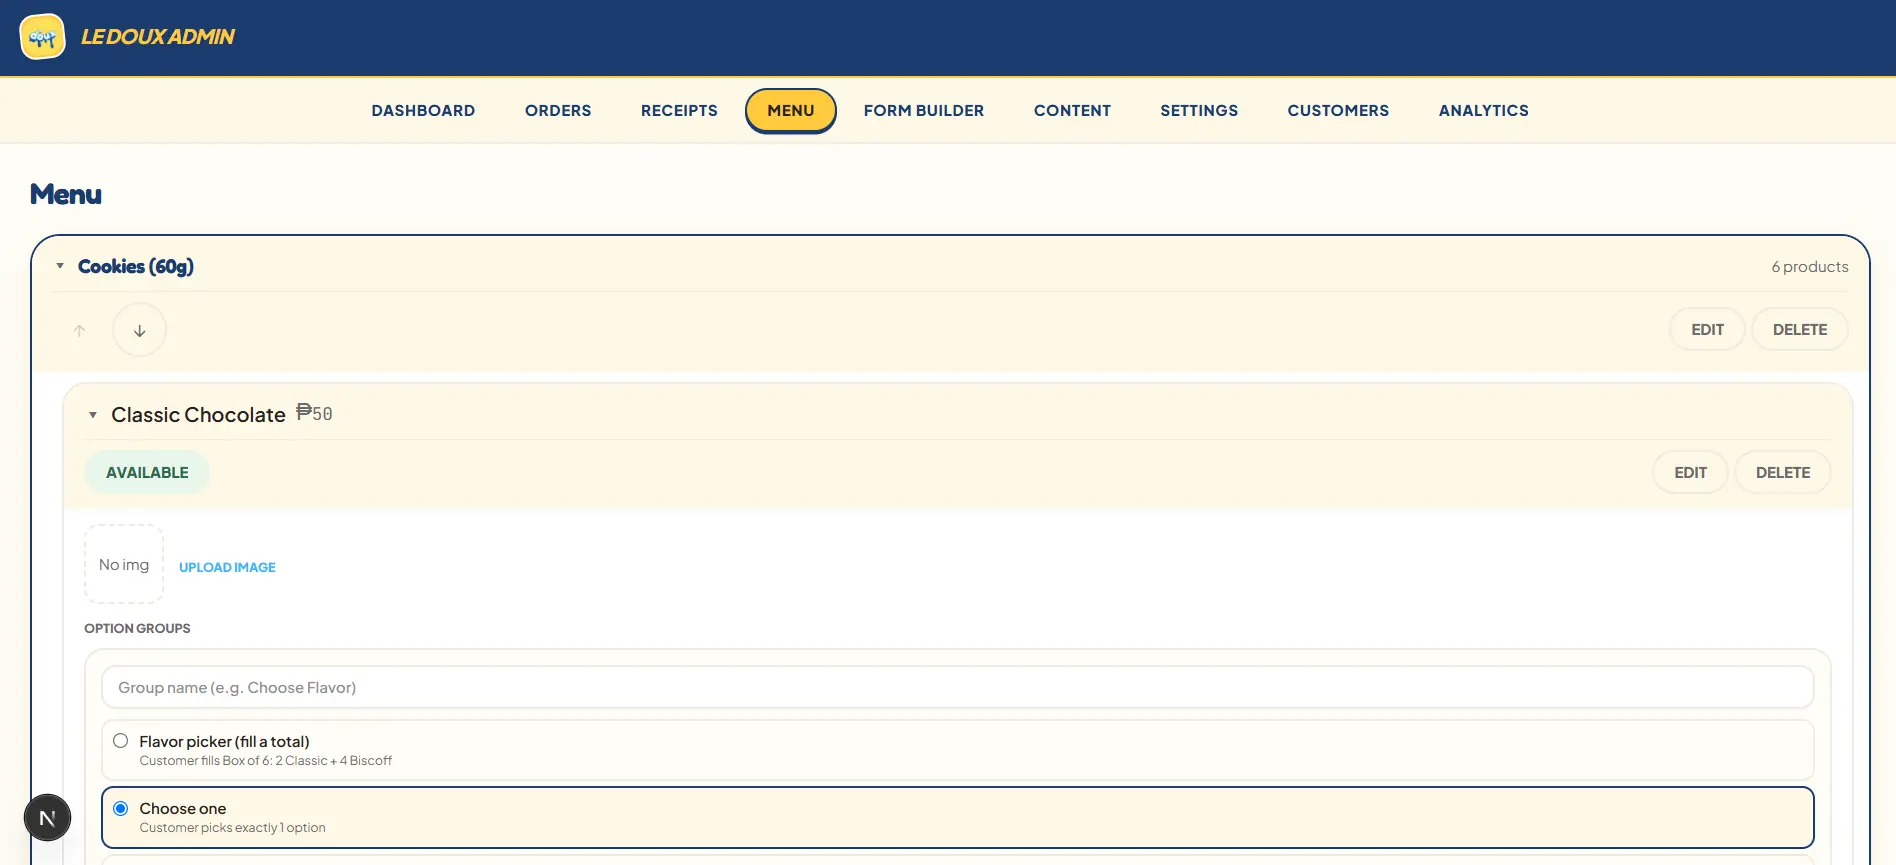
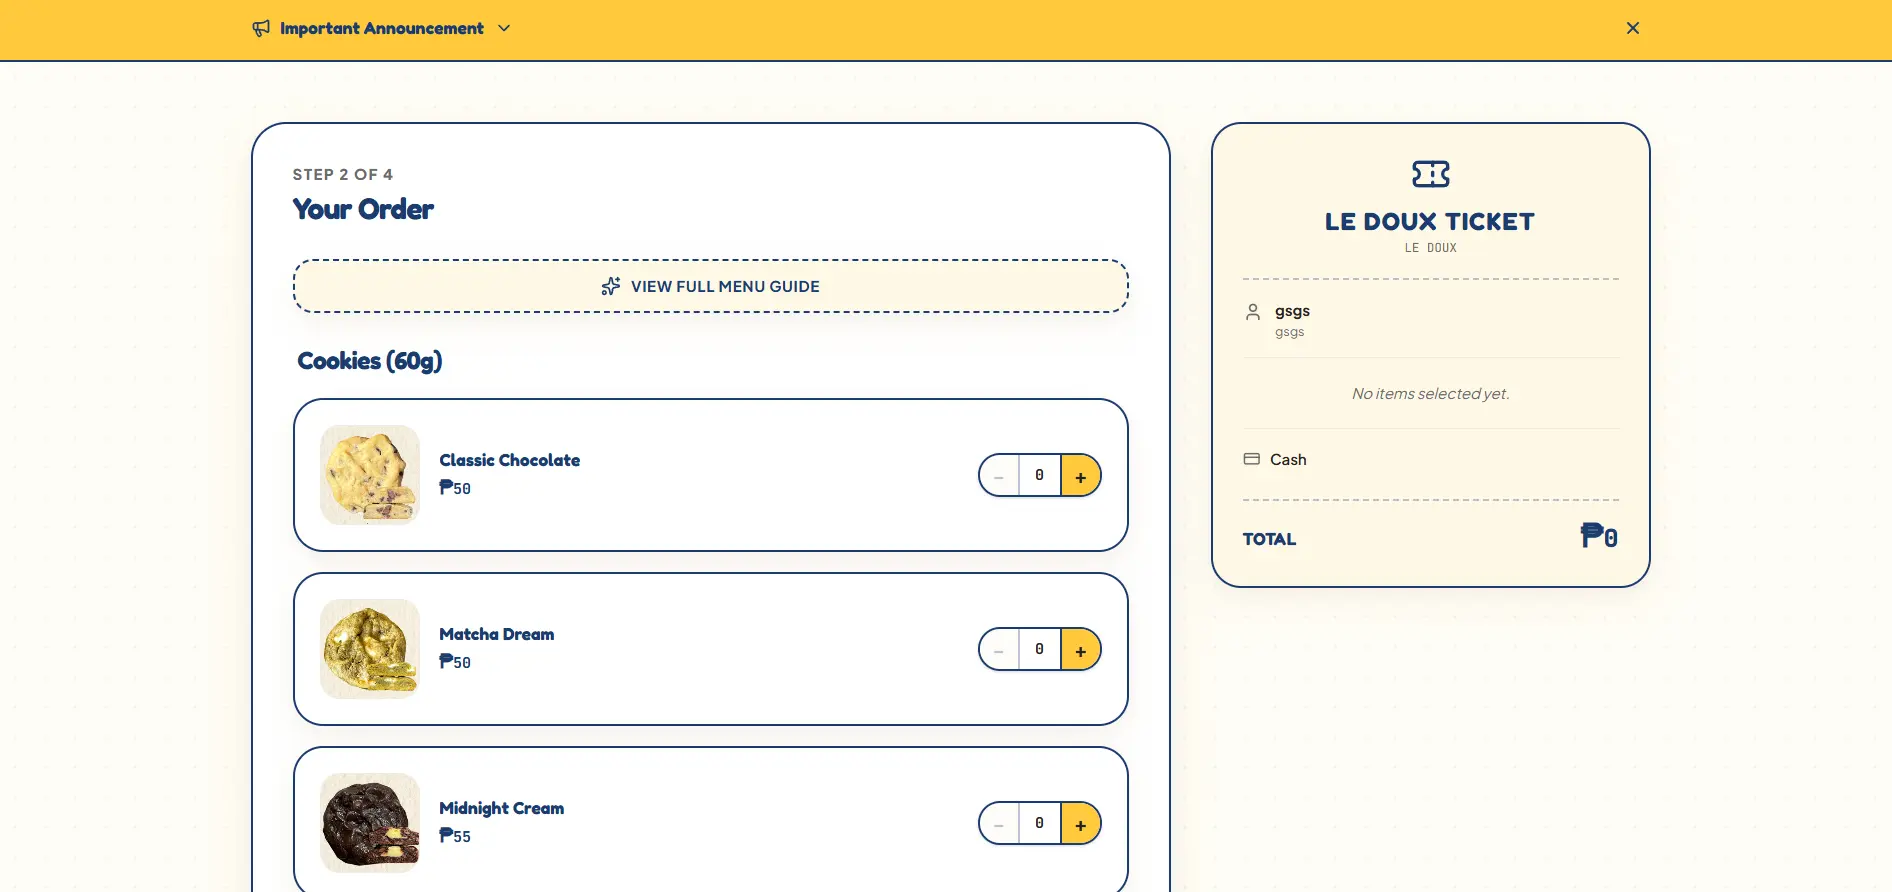
content: rewrite Le Doux project entry and add ogImageSrc field
Refreshes the Le Doux case study with the full current feature set (fulfillment
options, receipt generation, staff management, automated cleanup) and swaps its
gallery to the updated screenshot set. Also adds the ogImageSrc field to Project
and Certificate, populated for every existing entry, so OG image routes can read
source images straight off disk.

diff --git a/lib/projects.ts b/lib/projects.ts
@@ -36,12 +36,17 @@ import clarift3 from "@/app/assets/projects/clarift/3.webp";
 import clarift4 from "@/app/assets/projects/clarift/4.webp";
 import clarift5 from "@/app/assets/projects/clarift/5.webp";
 
-import leDouxHero from "@/app/assets/projects/leDoux/hero.png";
+import leDouxHero from "@/app/assets/projects/leDoux/hero.webp";
 import leDoux1 from "@/app/assets/projects/leDoux/1.webp";
 import leDoux2 from "@/app/assets/projects/leDoux/2.webp";
 import leDoux3 from "@/app/assets/projects/leDoux/3.webp";
 import leDoux4 from "@/app/assets/projects/leDoux/4.webp";
 import leDoux5 from "@/app/assets/projects/leDoux/5.webp";
+import leDoux6 from "@/app/assets/projects/leDoux/6.webp";
+import leDoux7 from "@/app/assets/projects/leDoux/7.webp";
+import leDoux8 from "@/app/assets/projects/leDoux/8.webp";
+import leDoux9 from "@/app/assets/projects/leDoux/9.webp";
+import leDoux10 from "@/app/assets/projects/leDoux/10.webp";
 
 import { StaticImageData } from "next/image";
 
@@ -80,6 +85,7 @@ const hcdcLFMSImages  : StaticImageData[] = [
 ]
 
 const clariftImages : StaticImageData[] = [
+  clariftHero,
   clarift1,
   clarift2,
   clarift3,
@@ -88,11 +94,17 @@ const clariftImages : StaticImageData[] = [
 ]
 
 const leDouxImages : StaticImageData[] = [
+  leDouxHero,
   leDoux1,
   leDoux2,
   leDoux3,
   leDoux4,
   leDoux5,
+  leDoux6,
+  leDoux7,
+  leDoux8,
+  leDoux9,
+  leDoux10,
 ]
 
 
@@ -101,6 +113,7 @@ export type Project = {
     title: string;
     subtitle: string;
     heroImage: StaticImageData;
+    ogImageSrc: string;
     year: string;
     problem: string;
     technicalDecisions: string[];
@@ -123,9 +136,10 @@ export const projects: Project[] = [
     subtitle:
       "Artisanal cookie ordering platform with a public order form and comprehensive admin dashboard for managing orders, products, payments, and analytics",
     heroImage: leDouxHero,
+    ogImageSrc: "app/assets/projects/leDoux/hero.webp",
     year: "2026",
     problem:
-      "A cookie seller relied on Instagram for discovery and Google Forms for order intake. Manual payment screenshot review, no order tracking, no CRM data, and no analytics made operations slow and error-prone.",
+      "A cookie seller relied on Instagram for discovery and Google Forms for order intake. Manual payment screenshot review, no order tracking, no CRM data, and no analytics made operations slow and error-prone. There was no structured product catalog, no automated confirmations, and no way to manage orders at scale.",
     technicalDecisions: [
       "Next.js full-stack App Router: Server Components, Server Actions, Route Handlers, and Middleware in a single deployment — no separate backend needed for this scope.",
       "Supabase for database, auth, and storage: PostgreSQL with RLS handles multi-tenant data isolation, Supabase Auth manages admin sessions, and Storage handles payment proofs and menu images without custom upload logic.",
@@ -135,25 +149,28 @@ export const projects: Project[] = [
       "Dynamic form builder with draft/publish workflow: admins configure the public order form through a visual block editor stored as JSONB, with publish validation ensuring no orphaned categories or empty product lists.",
     ],
     overview:
-      "Le Doux is a full-stack cookie ordering platform built for an artisanal cookie business in Davao. It replaces a Google Forms-based workflow with a branded, multi-step order wizard and a comprehensive admin dashboard. The system handles structured product ordering across multiple template types (cookies, boxes, tubs, bento cakes), GCash payment verification with client-side OCR, confirmation emails via Brevo, and a full admin suite covering orders, menu management, form building, customer CRM, and analytics.",
+      "Le Doux is a full-stack cookie ordering platform built for an artisanal cookie business in Davao. It replaces a Google Forms-based workflow with a branded, multi-step order wizard and a comprehensive admin dashboard. The system handles structured product ordering across multiple template types (cookies, boxes, tubs, bento cakes), GCash payment verification with client-side OCR, and a full admin suite covering orders, menu management, form building, customer CRM, and analytics.",
     features: [
-      "Multi-step order wizard with admin-configurable form blocks",
-      "Structured product catalog with template-based UIs (cookie, box, tub, bento cake)",
-      "Exact-quantity flavor distribution for cookie boxes",
-      "Customizable tub selector (3 flavors + 1 sauce)",
-      "GCash payment with QR display and client-side OCR for reference extraction",
-      "Server-side price recalculation to prevent tampering",
-      "Order snapshot strategy for historical accuracy",
-      "Admin dashboard with at-a-glance stats",
-      "Orders management with status filters, CSV export, and activity logs",
-      "Payment verification with screenshot lightbox review",
-      "Email workflow with branded confirmation templates and preview",
-      "Full menu CRUD with template types and sold-out toggles",
-      "Dynamic form builder with draft/publish workflow",
-      "Content management for welcome messages, reminders, and email templates",
-      "Pickup slot management with capacity controls",
-      "Customer CRM with auto-created records and order history",
-      "Analytics with revenue charts, top products, and customer insights",
+      "Multi-step order wizard with step navigation and per-step validation",
+      "Dynamic form rendering with admin-configurable blocks (text, images, product categories, customer info, fulfillment, payment, review)",
+      "Product catalog with category grouping, sold-out indicators, and image support",
+      "Flexible product types — Cookie (simple qty), Box (exact-quantity flavor distribution), Tub (3 flavors + 1 sauce), Bento Cake (dedication + add-ons)",
+      "Fulfillment options — self-pickup with slot selection or Maxim delivery with address input",
+      "GCash payment with QR display, screenshot upload, and client-side OCR for auto-extracting reference numbers",
+      "Order confirmation with summary, social links, and scannable QR code for quick admin lookup",
+      "Menu Guide bottom sheet with product information and guides",
+      "Admin dashboard with at-a-glance stats (new orders, pending payments, today's orders, estimated revenue)",
+      "Orders management — paginated list with status/search filters, CSV export, item breakdown, activity log, and internal notes",
+      "Payment verification with screenshot lightbox review and reject-with-reason flow",
+      "Manual confirmation with receipt generation — downloadable PNG receipts and copy-text summaries for Instagram/Facebook DMs",
+      "Menu management — full CRUD for categories, products, option groups, and option values with template-based pre-creation, reordering, and sold-out toggles",
+      "Form builder — drag/reorder form blocks, toggle visibility, exclude products, preview draft, publish with validation",
+      "Content management for welcome messages, reminders, and GCash instructions",
+      "Settings — pickup slot CRUD with reorder and capacity, payment method toggles with account info and QR upload",
+      "Customer CRM — auto-created customer records, searchable list with order stats, customer detail with notes and order history",
+      "Analytics — period-filtered charts for revenue over time, status/payment/fulfillment breakdowns, new vs repeat customers, top products and flavors",
+      "Staff management with add staff, change password, and forgot password flow",
+      "Automated cleanup — weekly pg_cron job deletes orphaned storage files, purges stale logs",
     ],
     role: "Sole Full Stack Developer",
     stack: [
@@ -166,10 +183,13 @@ export const projects: Project[] = [
       "Lucide React",
       "Recharts",
       "Tesseract.js",
-      "Brevo",
+      "Framer Motion",
+      "qrcode.react",
+      "html-to-image",
     ],
-    integrations: ["Supabase", "Brevo", "Vercel"],
+    integrations: ["Supabase", "Netlify"],
     gallery: leDouxImages,
+    live: "https://le-doux.netlify.app/order",
     client: "Le Doux",
     clientConsent: true,
   },
@@ -179,6 +199,7 @@ export const projects: Project[] = [
     subtitle:
       "AI-powered study engine for Filipino students — transforms uploaded materials into summaries, quizzes, and targeted practice",
     heroImage: clariftHero,
+    ogImageSrc: "app/assets/projects/clarift/hero.webp",
     year: "2026",
     problem:
       "Filipino students and review center learners waste hours reformatting raw study material into usable review content. Existing tools either ignore uploaded notes or generate content from general knowledge rather than the student's own materials.",
@@ -241,6 +262,7 @@ export const projects: Project[] = [
     subtitle:
       "An AI-Powered Learning Productivity Web Application with Note Summarization and Quiz Generation capabilities",
     heroImage: simplyNoteHero,
+    ogImageSrc: "app/assets/projects/simplyNote/hero.webp",
     year: "2025",
     problem:
       "Students studying with raw notes had no fast way to turn them into structured study material. Existing tools either required manual reformatting or didn't work with your own content.",
@@ -287,6 +309,7 @@ export const projects: Project[] = [
     subtitle:
       "A Seminar Tracking Platform with automated Certifications and Attendance System",
     heroImage: ThePodiumHero,
+    ogImageSrc: "app/assets/projects/ThePodium/hero.webp",
     year: "2024",
     problem:
       "HCDC's VPAA managed seminar attendance and certificate distribution manually, spreadsheets, printed sign-in sheets, and emailed certificates sent one by one.",
@@ -329,6 +352,7 @@ export const projects: Project[] = [
     subtitle:
       "A centralized Lost and Found Management System with reporting, claims, notifications, and admin moderation",
     heroImage: hcdcLFMSHero,
+    ogImageSrc: "app/assets/projects/hcdcLFMS/hero.webp",
     year: "2023",
     problem:
       "Lost and found items at HCDC were reported informally, word of mouth, group chats, bulletin boards. No central record meant items went unclaimed and disputes had no audit trail.",

diff --git a/lib/certificates.ts b/lib/certificates.ts
@@ -11,6 +11,7 @@ export interface Certificate {
   slug: string;
   issuer: string;
   image: StaticImageData;
+  ogImageSrc: string;
   date: string;
   credentialUrl: string | null;
   description?: string;
@@ -22,6 +23,7 @@ export const certificates: Certificate[] = [
     slug: "eskwelabs-ai-solution-development-track",
     issuer: "Eskwelabs",
     image: eskwelabsAITrackCert,
+    ogImageSrc: "app/assets/certificates/eskwelabs-cert.jpg",
     date: "May 9, 2026",
     credentialUrl: null,
     description:
@@ -32,6 +34,7 @@ export const certificates: Certificate[] = [
     slug: "introduction-to-modern-ai",
     issuer: "Cisco Networking Academy",
     image: introToModernAICert,
+    ogImageSrc: "app/assets/certificates/intro-to-modern-ai.webp",
     date: "December 8, 2025",
     credentialUrl:
       "https://www.credly.com/badges/505dca5f-4aa7-48c6-9b06-c37495b9b9d0/public_url",
@@ -43,6 +46,7 @@ export const certificates: Certificate[] = [
     slug: "national-programming-challenge-2024",
     issuer: "Codechum",
     image: nationalProgrammingChallenge2024,
+    ogImageSrc: "app/assets/certificates/national-programming-challenge-2024.webp",
     date: "December 5, 2024",
     credentialUrl: "https://hcdc.codechum.com/certificates/4235",
     description:
@@ -53,6 +57,7 @@ export const certificates: Certificate[] = [
     slug: "python-essentials-1",
     issuer: "Cisco Networking Academy",
     image: pythonEssentials1Cert,
+    ogImageSrc: "app/assets/certificates/pythonEssentials1.webp",
     date: "December 5, 2025",
     credentialUrl:
       "https://www.credly.com/badges/bdec1c5f-e5af-423d-b0e1-e5f934f97054/public_url",
